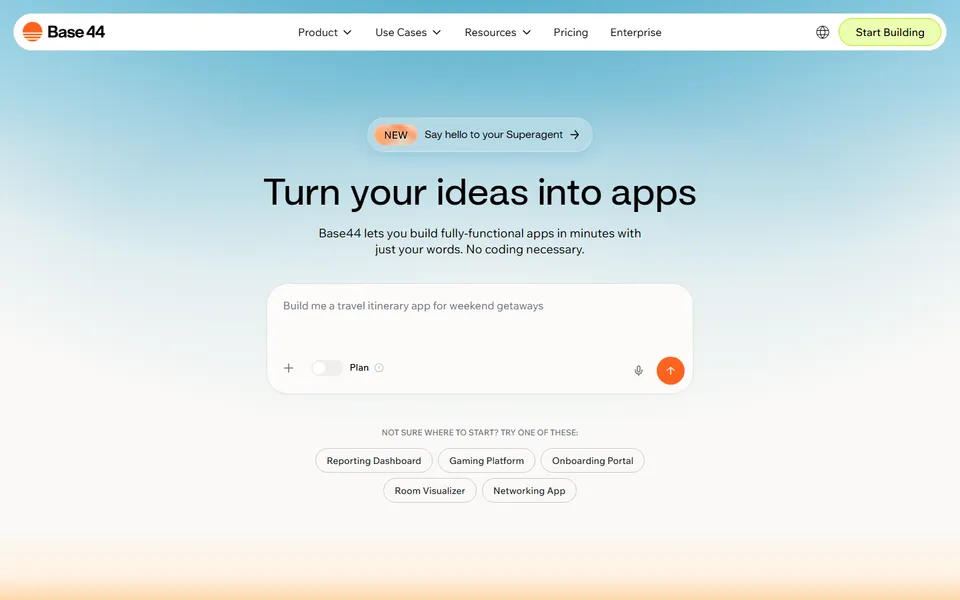
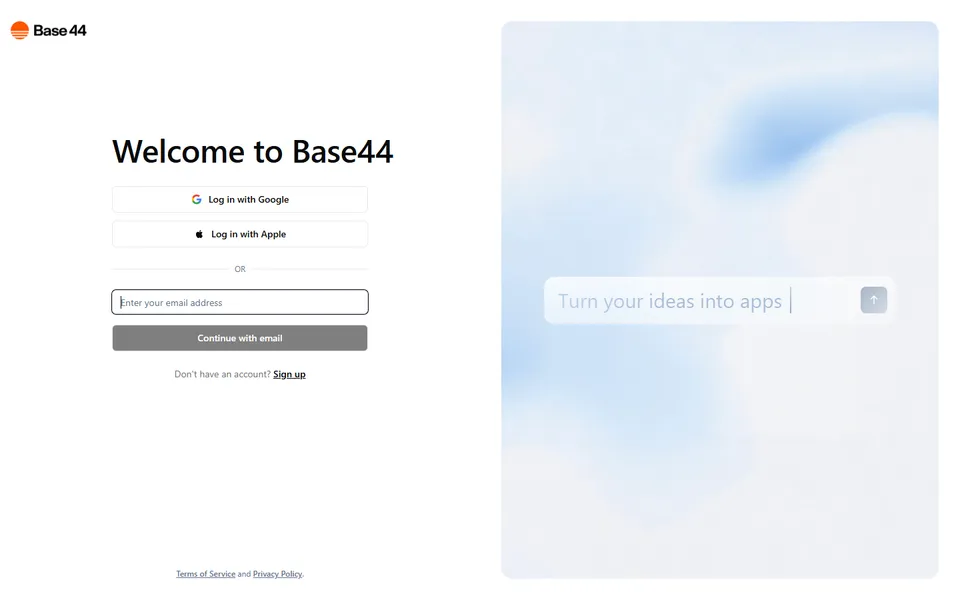
fix : update Base44 preview rendering
- Point Base44 catalog links and generated previews at the app URL.

- Keep the site preview overlay transparent in light mode so screenshots stay visible.

diff --git a/src/components/sites/SitePreview.vue b/src/components/sites/SitePreview.vue
@@ -67,7 +67,7 @@ watch(
           />
         </picture>
         <div
-          class="absolute inset-0 flex items-end justify-end bg-[#1f1f1f]/0 p-4 transition-colors group-hover:bg-[#1f1f1f]/20"
+          class="site-preview-overlay absolute inset-0 flex items-end justify-end p-4 transition-colors"
         >
           <span
             class="site-preview-visit-button inline-flex items-center gap-2 rounded-lg px-3 py-2 text-xs font-semibold shadow-lg transition-all"
@@ -102,6 +102,14 @@ watch(
 </template>
 
 <style scoped>
+.site-preview-overlay {
+  background-color: transparent;
+}
+
+.group:hover .site-preview-overlay {
+  background-color: rgba(31, 31, 31, 0.2);
+}
+
 .site-preview-visit-button {
   border: 1px solid rgba(255, 255, 255, 0.22);
   background-color: rgba(0, 0, 0, 0.82);
@@ -122,6 +130,14 @@ watch(
   color: var(--mocha-text) !important;
   opacity: 1 !important;
   box-shadow: 0 14px 30px rgba(45, 33, 25, 0.18) !important;
+}
+
+:global(html.light .site-preview-overlay) {
+  background-color: transparent !important;
+}
+
+:global(html.light .group:hover .site-preview-overlay) {
+  background-color: rgba(45, 33, 25, 0.08) !important;
 }
 
 :global(html.light .group:hover .site-preview-visit-button) {
